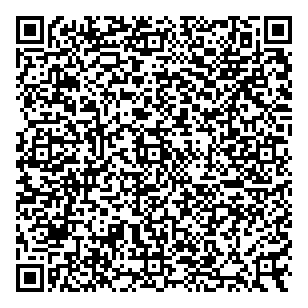
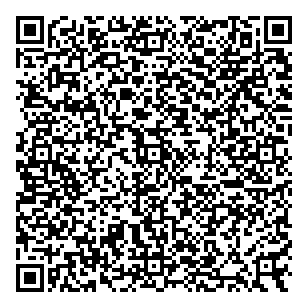
ok

diff --git a/src/js/index.js b/src/js/index.js
@@ -149,15 +149,7 @@ const fs = require('fs');
 	if(voucherInfo === null){
 		console.log('El comprobante no existe');
 	}
-	else{
-		const codAut=voucherInfo.CodAutorizacion;
-		let tipocodAut;
-		if(voucherInfo.EmisionTipo ==='CAE'){
-			tipocodAut="E"
-		}else{
-			tipocodAut="A"
-		}
-	}
+	
 
 
 	//Crear PDF
@@ -187,6 +179,10 @@ const fs = require('fs');
 	// Mostramos la url del archivo creado
 	console.log(pdfres.file);
 
+	const tipocodAut=voucherInfo.Resultado;
+	const codAut=voucherInfo.CodAutorizacion;
+	console.log(codAut)
+
 	//datos codigo QR
 	const datos = {
 		'ver' 	: 1, // version del formato de los datos del comprobante
@@ -200,8 +196,8 @@ const fs = require('fs');
 		'ctz'  : 1,
 		'tipoDocRec'  : tipo_de_documento,
 		'nroDocRec'    : numero_de_documento,
-		'tipoCodAut' 	: 'A',
-		'codAut': '70417054367476',
+		'tipoCodAut' 	: tipocodAut,
+		'codAut': codAut,
 		
 	};
 
